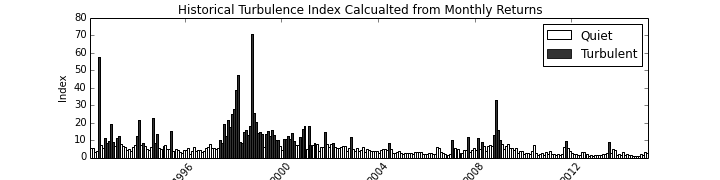
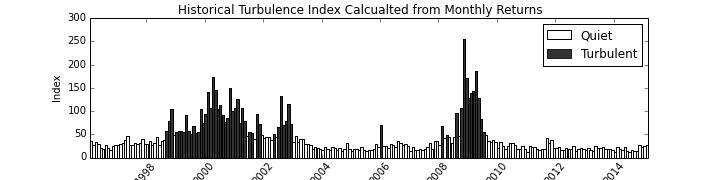
Completed Shrinakge intergration with script
Completed Shrinakge intergration with script

diff --git a/main.py b/main.py
@@ -56,14 +56,15 @@ JPN_sectors_returns= srm.logreturns(Returns=JPN_sectors)
 
 CAN_sectors= pd.load('CANsectors')
 CAN_sectors_returns= srm.logreturns(Returns=CAN_sectors)
+#-------------------------
 
 """Correlation Surprise"""
     #Import US_Equities, Euro_Equities and Currency data
 Exhibit5_USEquities= pd.load('Exhibit5_US_Equities')        #Import Correlation Surprise Exhibit5 US Equities
 Exhibit5_Euro_Equities=pd.load('Exhibit5_Euro_Equities')#Import Correlation Surprise Exhibit5 European Equities
 Exhibit5_Currency=pd.load('Exhibit5_Currency')             #Import Correlation Surprise Exhibit5 Currency
+#-------------------------
 
-    
 """Absorption Ratio"""
     #Import sectors of the US economy
 FamaFrench49= pd.load('FenFrench49')                                           #51 sectors
@@ -72,35 +73,38 @@ MSCIUS_PRICES= pd.load('MSCIUSA')                                              #
     #Exhibit_9 imported data for a dynamic trading strategy in which has exposure to government bonds and stocks
 Treasury_bonds= pd.load('Treasury_Bonds_AR_Exhibit_9')['Adj Close']
 MSCIUS_PRICES= pd.load('MSCIUSA') 
+#-------------------------
 #----------------------------------------------------------------------------------------------------------------------------------
 
 
 """STAGE 3: 
 IMPORT SYSTEMIC RISK MEASURES AND RUN SIGNALS"""
 #-------------------------
+
 """Mahalanobis Distance"""
         #Input
-MD_input=EM_Asia_xIndia_returns           #Change this value for data required
+MD_input=US_sectors_returns           #Change this value for data required
         #Run
 SRM_mahalanobis= srm.MahalanobisDist(Returns=MD_input)   
 SRM_mahalanobis_turbulent_nonturbulent_days= srm.MahalanobisDist_Turbulent_Returns(MD_returns= SRM_mahalanobis, Returns=MD_input)
 MD_input= MD_input.drop('MD',1)
-EM_Asia_xIndia_returns = EM_Asia_xIndia_returns.drop('MD',1)    
+US_sectors_returns  = US_sectors_returns.drop('MD',1)    
         #Graph
 SRM_HistoricalTurbulenceIndexGraph= srm.HistoricalTurbulenceIndexGraph( Mah_Days=SRM_mahalanobis,  width=30, figsize=(10,2.5))
-
+#-------------------------
 
 """Correlation Surprise"""
         #Input
 Corr_Input= EM_Asia_xIndia_returns
         #Run
 SRM_Correlation_Surprise=srm.Correlation_Surprise(Returns=Corr_Input)
-
+#-------------------------
 
 """Absorption Ratio"""
         #Input
-AR_input= EM_Asia_xIndia_returns 
-Comparision_input= MSCIUS_PRICES #must be same length as AR
+AR_input= US_sectors_returns 
+Comparision_input= US_sectors_returns['FTSE USA H/C EQ & SVS - PRICE INDEX']
+# MSCIUS_PRICES #must be same length as AR
         #Run
 SRM_absorptionratio= srm.Absorption_Ratio(Returns= AR_input)                        #define Absorption Ratio
 #SRM_Absorption_Ratio_Standardised_Shift= srm.Absorption_Ratio_Standardised_Shift(AR_Returns= SRM_absorptionratio[0])
@@ -109,25 +113,28 @@ SRM_absorptionratio= srm.Absorption_Ratio(Returns= AR_input)                    
 halflife=0
 SRM_AR_plot= SRM_absorptionratio.plot(figsize=(10,4))
 #SRM_Absorption_Ratio_and_Stock_Prices_Graph= srm.Absorption_Ratio_VS_MSCI_Graph(MSCI=Comparision_input, AR_returns=SRM_absorptionratio[0])
+#SRM_AR_vs_Market_plot= srm.plot_AR(AR=SRM_absorptionratio)
+#-------------------------
 #----------------------------------------------------------------------------------------------------------------------------------
-
-
 
 """Stage4: 
 RUN Empirical Analysis"""
 #-------------------------
 """Mahalanobis Distance"""
 #SRM_Persistence_of_Turbulence= srm.MahalanobisDist_Table1(Market_Returns=Table_1_returns)
-SRM_Efficient_Portfolios=srm.MahalanobisDist_Table2(Asset_Class= Table_2_Asset_Classes, Weights=portfolio_weights) #need to add [0] to get Table
-SRM_VaR_and_Realised_Returns = srm.MahalanobisDist_Table3(Portfolios=SRM_Efficient_Portfolios[1], beta=0.01)
+#SRM_Efficient_Portfolios=srm.MahalanobisDist_Table2(Asset_Class= Table_2_Asset_Classes, Weights=portfolio_weights) #need to add [0] to get Table
+#SRM_VaR_and_Realised_Returns = srm.MahalanobisDist_Table3(Portfolios=SRM_Efficient_Portfolios[1], beta=0.01)
 #SRM_Modified_Mean_Variance_Optimization= srm.MahalanobisDist_Table4(portfolio=Equilbrium_returns, weights=equilibrium_Weights)
-#SRM_shrink_cov=  srm.shrinking_cov(Market_Portfolio=Equilbrium_returns*equilibrium_Weights,Regress_test= returns.iloc[:,4:5] )
 
+SRM_Mean_Var= srm.MahalanobisDist_Table4(portfolio=Equilbrium_returns, weights=equilibrium_Weights)
+#SRM_shrink_cov=  srm.shrinking_cov(Market_Portfolio=Equilbrium_returns*equilibrium_Weights,Regress_test= returns.iloc[:,4:5] )
+#-------------------------
     
     
 """Correlation Surprise"""
     #Conditional_ave_magn_sur_on_day_of_the_reading= srm.Conditional_ave_magn_sur_on_day_of_the_reading(Exhibit5_USEquities, Exhibit5_Euro_Equities, Exhibit5_Currency)[0] # Import Exhibit 5
     #Correlation_Surprise_Exhibit_6= srm.Conditional_ave_magn_sur_on_day_after_reading(Exhibit5_USEquities, Exhibit5_Euro_Equities, Exhibit5_Currency)
+#-------------------------
 
 """Absorption Ratio """
     #AR_and_Drawdowns= srm.Absorption_Ratio_and_Drawdowns(delta_AR=SRM_Absorption_Ratio_Standardised_Shift)
@@ -136,7 +143,7 @@ SRM_VaR_and_Realised_Returns = srm.MahalanobisDist_Table3(Portfolios=SRM_Efficie
      #absorption Ratio_2 
 #SRM_Centraility= srm.AR_systemic_importance(AR=SRM_absorptionratio)
    
-    
+#-------------------------    
 
 #PORBIT MODEL
 

diff --git a/systemicRiskMeasures.py b/systemicRiskMeasures.py
@@ -7,7 +7,8 @@ def CreateDataFrameWithTimeStampIndex(DataFrame):
         timestamp= datetime.datetime.strptime(DataFrame.index[i],'%d/%m/%Y')
         New_index.append(timestamp)
     New_DataFrame=pd.DataFrame(DataFrame.values, index=New_index, columns=DataFrame.columns)    
-    
+  
+  #--------------------------------------------------------------------------- 
     return New_DataFrame
    #---------------------------------------------------------------------------
 
@@ -18,9 +19,9 @@ def logreturns(Returns):    #GENERATED LOGARITHMIC RETURNS
         
     returns = np.log(Returns/Returns.shift(1)).dropna()  #Generate log returns
     resampled_data=returns.resample('d').dropna()                              #Choose if Daily, Monthly, Yearly(ect) dataframe is required
-    
+  
+  #--------------------------------------------------------------------------- 
     return   resampled_data                                                    #Return Log returns
-
    #---------------------------------------------------------------------------
 
                 ##Systemic Risk Measures##
@@ -53,7 +54,8 @@ def MahalanobisDist(Returns):                                                  #
     md_array= np.array(md)                                                     #Translate md List type to md Numpy Array type in order to join values into a Dataframe
     MD_daily=pd.DataFrame(md_array,index=dates,columns=list('R'))              #Join Dataframe index and Numpy array back together
     #MD_monthly= MD_daily.resample('M')                                         #resample data by average either as daily, monthly, yearly(ect.) 
-    
+   
+   #---------------------------------------------------------------------------
     return    MD_daily                                                         #Return Malanobis Distance resampled returns, Malanobis Distance daily returns,  Turbulent returns and non-Turbulent returns
    #---------------------------------------------------------------------------
 
@@ -76,11 +78,10 @@ def MahalanobisDist_Turbulent_Returns(MD_returns, Returns):
     
     Returns=Returns.drop('MD',1)
     
-   
+   #---------------------------------------------------------------------------
     return turbulent, non_turbulent, Turbulent_Days,non_Turbulent_Days
    #---------------------------------------------------------------------------
     
-
    
 
 def HistoricalTurbulenceIndexGraph( Mah_Days,  width, figsize):
@@ -100,6 +101,7 @@ def HistoricalTurbulenceIndexGraph( Mah_Days,  width, figsize):
     plt.legend()
     plt.show()
     fig.savefig('Historical_Turbulence_Index_Calcualted_from_ Monthly_Returns.png')
+    #---------------------------------------------------------------------------    
     return 
    #---------------------------------------------------------------------------
 
@@ -256,6 +258,7 @@ def regression(Primarily_return, Secondary_returns):
     y=Secondary_returns
     slope, intercept, r_value, p_value, std_err = stats.linregress(x,y)
   
+  #---------------------------------------------------------------------------
     return intercept,slope, std_err, r_value, p_value, std_err
    #---------------------------------------------------------------------------
 
@@ -295,7 +298,7 @@ def shrinking_cov(Market_Portfolio):
    
     import numpy as np
 
-    x=Market_Portfolio
+    x=Market_Portfolio.values
 
     t= x.shape[0]
     n= x.shape[1]
@@ -336,7 +339,8 @@ def shrinking_cov(Market_Portfolio):
     shrinkage= np.reshape(np.max(np.reshape(np.min(k/t),(1,1))),(1,1))
 
     sigma= shrinkage*prior + (1-shrinkage)*sample
-
+    
+    #---------------------------------------------------------------------------
     return sigma
    #---------------------------------------------------------------------------
 
@@ -346,8 +350,7 @@ def MahalanobisDist_Table4(portfolio, weights):
    """Equilibrium Returns is constructed as a portfolio 
    of 60% US equities, 30% T bonds and 10% US Corporate Bonds"""
 
-   import numpy as np
-   
+      
    #Step1:  Estimate unconditional expected returns
    market_portfolio= portfolio*weights    #equilibrium returns on the basis of full training sample
    market_portfolio_mean= market_portfolio.mean().mean()
@@ -383,7 +386,7 @@ def MahalanobisDist_Table4(portfolio, weights):
    est_uncon_cov= Turbulent_ratio*shrinking_cov(Market_Portfolio=Turbulent_days)+ Non_Turbulent_ratio*full_sample_covariance
    #---------------------------------------------------------------------------
       
-   return      
+   return     u_c_t, u_c_f, est_uncon_cov
     
     
    #---------------------------------------------------------------------------
@@ -702,6 +705,27 @@ def Absorption_Ratio_and_Drawdowns(delta_AR):    #how to measure all drawdowns
               prevmaxi = maxi
               prevmini = i
     return (delta_AR['R'][prevmaxi], delta_AR['R'][prevmini])
+
+
+def plot_AR(AR):
+    
+    import matplotlib.pyplot as plt
+   
+    plt.figure( figsize=(10,4))    
+    plt.suptitle('Absorption Ratio') 
+    plt.xticks(rotation=50)
+    plt.xlabel('Year')#label x axis Year
+    plt.ylabel('AR')
+    x1,x2,y1,y2 = plt.axis()
+    plt.axis((x1,x2,0.5,1))
+    plt.plot(AR.index,AR.values)
+    plt.fill_between(0.5,AR.values, facecolor='blue', alpha=0.5)
+    
+    
+    plt.show()
+
+    return 
+
 
 """
 def AR_systemic_importance(AR):
